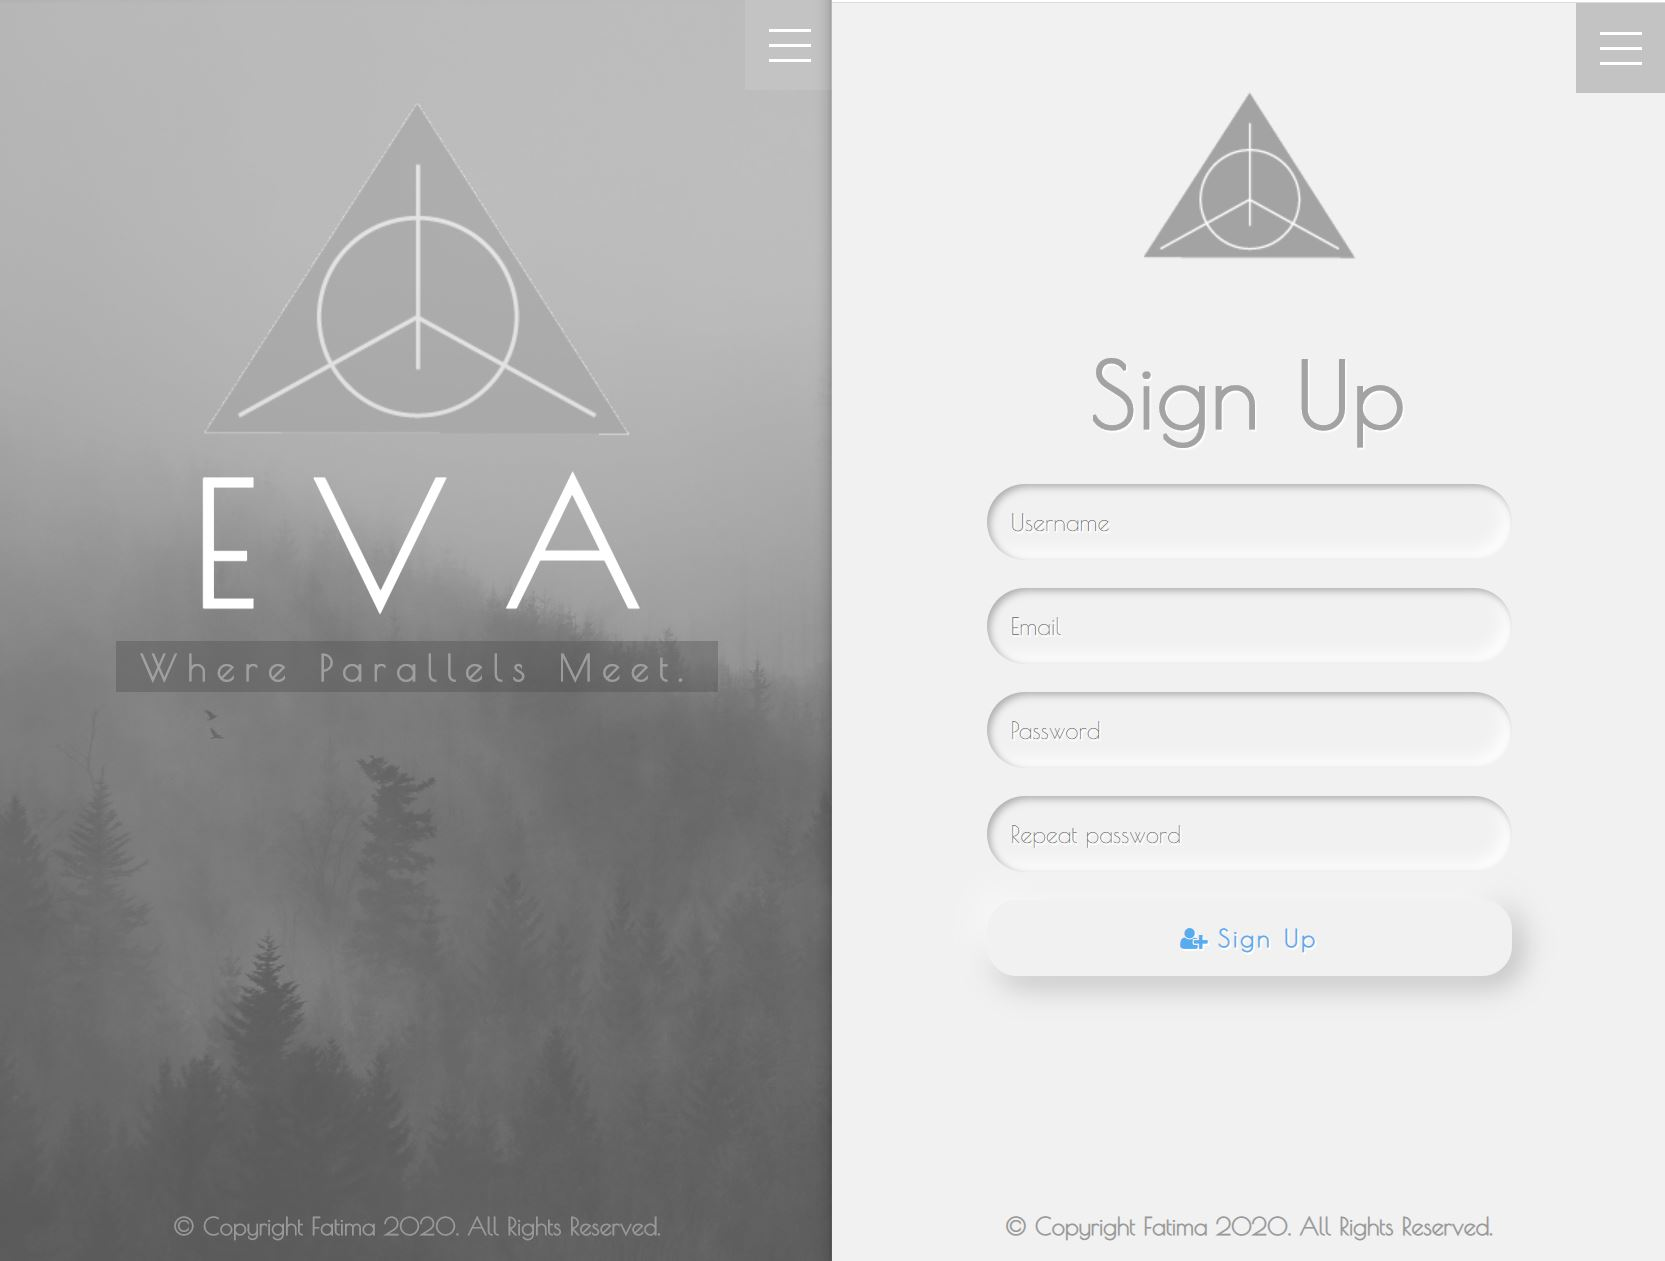
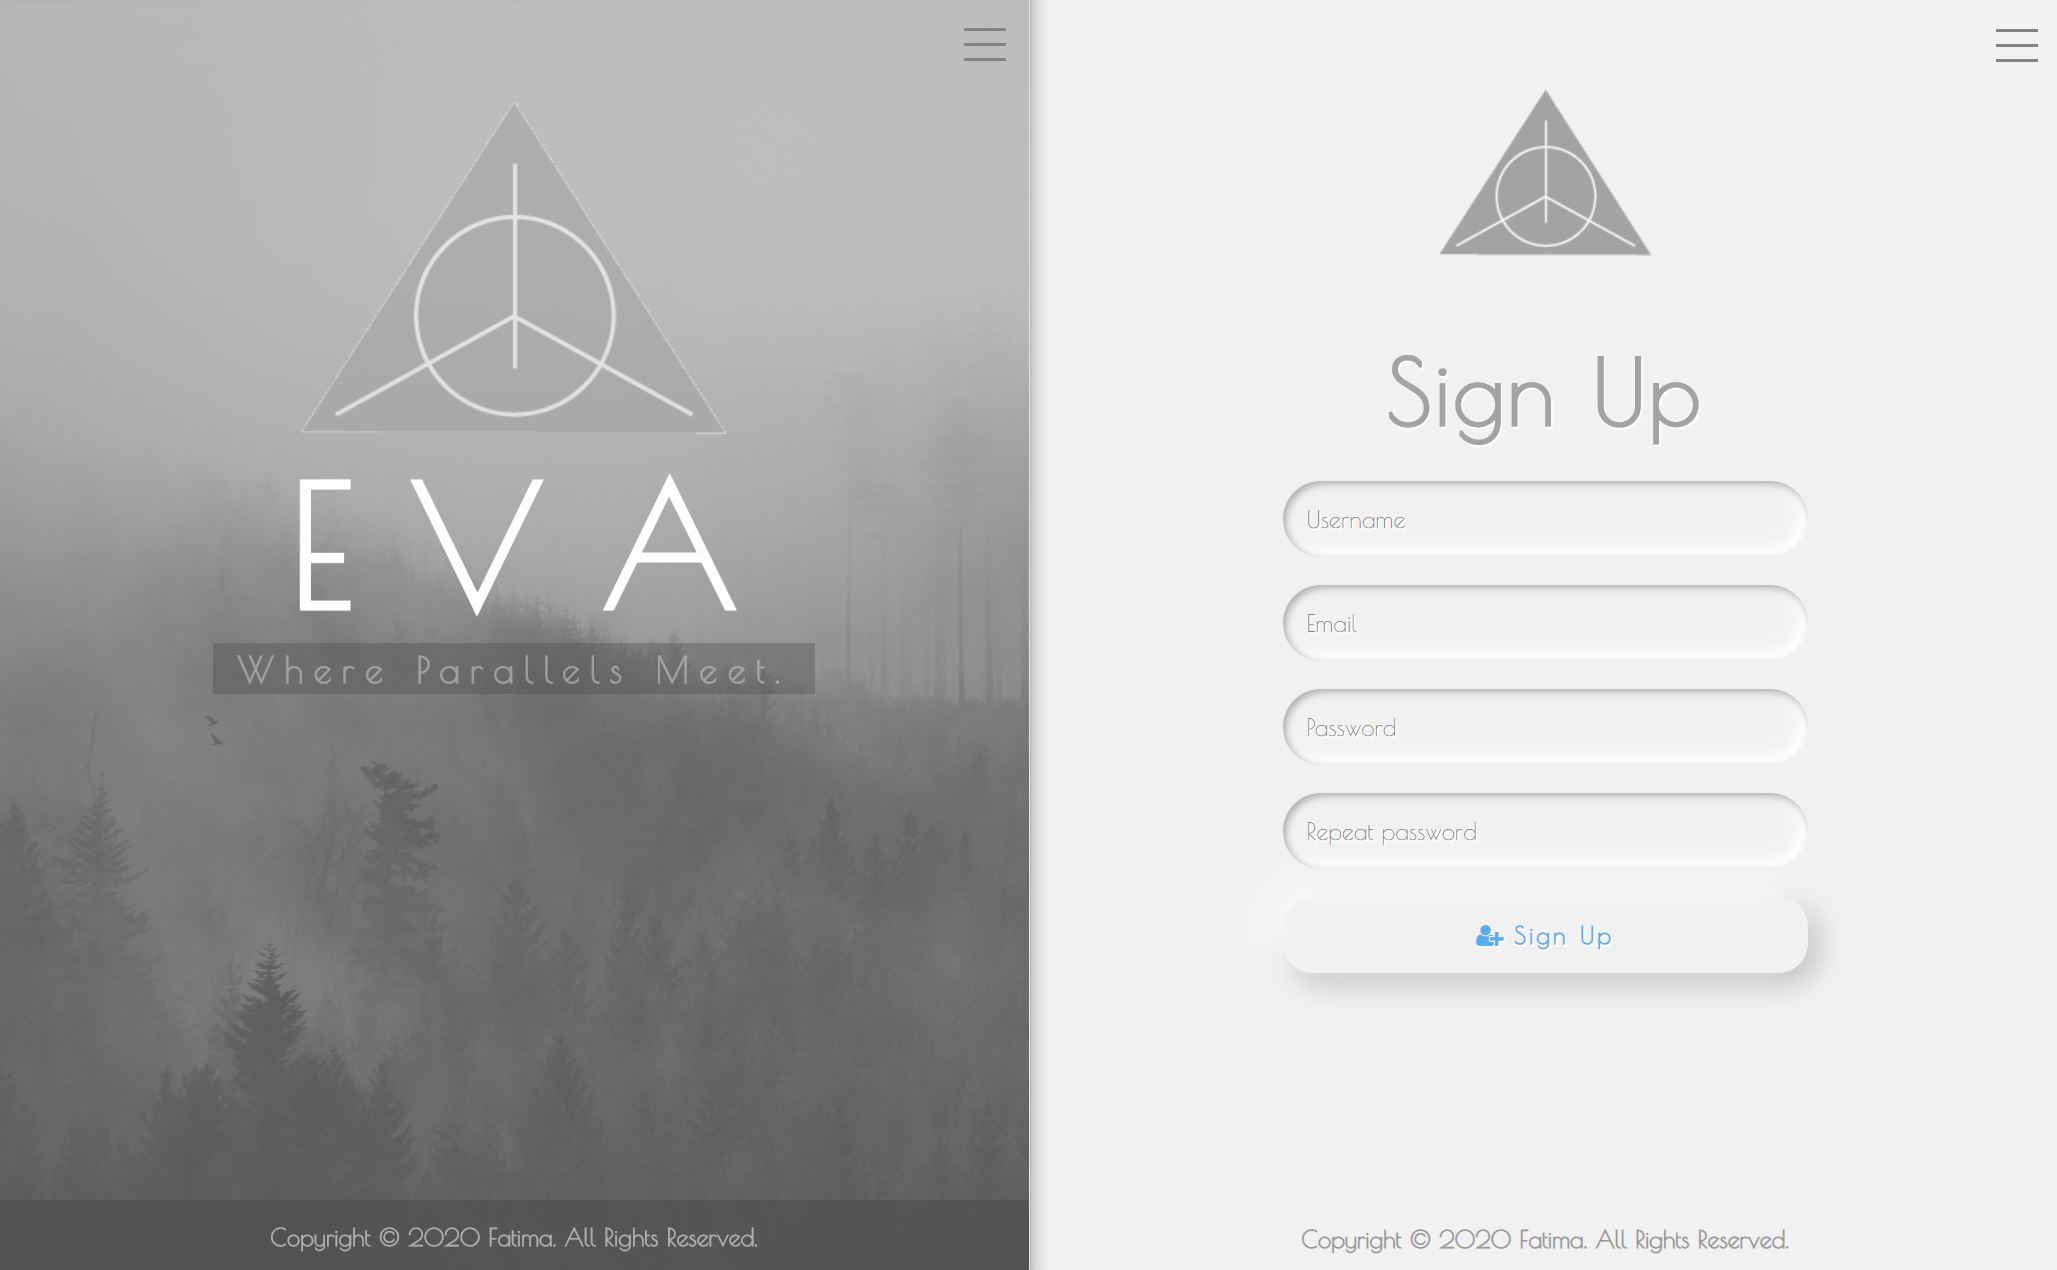
Login System - PHP

diff --git a/login.php b/login.php
@@ -1,18 +1,38 @@
-<?php
+<?php $page = 'login'; ?>
 
+<?php
+  session_start();
 ?>
+
 <!DOCTYPE html>
 <html lang="en">
 
   <?php
     require "header.php";
    ?>
-   
-   <div class="login-form">
+
+
+   <form class="login-form" action="includes/login.inc.php" method="post">
      <div class="form-title">
        <div class="signin-logo"><img src="images/logo.png" alt="logo" style="float:center;"></div>
        <h1>Log In</h1>
+       <?php
+         if (isset($_GET['error'])) {
+           if ($_GET['error'] == "emptyfields") {
+             echo '<p class="signuperror">Please fill in all fields.</p>';
+           }
+           else if ($_GET['error'] == "wrongpwd") {
+             echo '<p class="signuperror">Wrong Username/Password.</p>';
+           }
+           else if ($_GET['error'] == "sqlerror") {
+             echo '<p class="signuperror">Invalid username/Password.</p>';
+           }
+
+         }
+
+       ?>
      </div>
+
      <label><input type="text" placeholder="Username" name="mailuid"></label>
      <label><input type="password" placeholder="Password" name="pwd"></label>
      <div class="remember-me">
@@ -31,10 +51,11 @@
        <button onclick="window.location.href='https://www.linkedin.com/uas/login';" class="media-links" type="button"><i class="fa fa-linkedin"></i></button>
        <button onclick="window.location.href='https://plus.google.com';" class="media-links" type="button"><i class="fa fa-google-plus"></i></button>
      </div>
-     <div class="main-footer">
-       <?php
-         require "footer.php";
-        ?>
-     </div>
+   </form>
+
+   <div class="main-footer">
+     <?php
+       require "footer.php";
+      ?>
    </div>
 </html>

diff --git a/signup.php b/signup.php
@@ -1,3 +1,5 @@
+<?php $page = 'signup'; ?>
+
 <?php
   session_start();
 ?>
@@ -13,7 +15,29 @@
      <div class="form-title">
        <div class="signin-logo"><img src="images/logo.png" alt="logo" style="float:center;"></div>
        <h1>Sign Up</h1>
-       
+       <?php
+         if (isset($_GET['error'])) {
+           if ($_GET['error'] == "emptyfields") {
+             echo '<p class="signuperror">Please fill in all fields.</p>';
+           }
+           else if ($_GET['error'] == "invaliduidmail") {
+             echo '<p class="signuperror">Invalid username and e-mail.</p>';
+           }
+           else if ($_GET['error'] == "invaliduid") {
+             echo '<p class="signuperror">Invalid username.</p>';
+           }
+           else if ($_GET['error'] == "invalidmail") {
+             echo '<p class="signuperror">Invalid e-mail.</p>';
+           }
+           else if ($_GET['error'] == "passwordcheck") {
+             echo '<p class="signuperror">passwords do not match.</p>';
+           }
+           else if ($_GET['error'] == "usertaken") {
+             echo '<p class="signuperror">Username is already taken.</p>';
+           }
+         }
+
+       ?>
      </div>
       <input type="text" name="uid" placeholder="Username"><br><br>
       <input type="text" name="mail" placeholder="Email"><br><br>

diff --git a/header.php b/header.php
@@ -1,3 +1,4 @@
+
 <head>
   <meta charset="utf-8">
   <meta name="viewport" content="width=device-width, initial-scale=1">
@@ -6,6 +7,7 @@
   <link rel="stylesheet" href="style.css">
   <link href="https://fonts.googleapis.com/css2?family=Poiret+One&display=swap" rel="stylesheet">
   <link href="https://stackpath.bootstrapcdn.com/font-awesome/4.7.0/css/font-awesome.min.css" rel="stylesheet">
+
   <title>EVA</title>
 </head>
 <body>
@@ -16,10 +18,10 @@
       <div>
         <div>
           <ul>
-            <li><a href="index.php">Home</a></li>
-            <li><a href="login.php">Sign In</a></li>
-            <li><a href="signup.php">Sign Up</a></li>
-            <li><a href="contact.php">Contact Us</a></li>
+            <li><a class="<?php if($page=='home'){echo 'active';} ?>" href="index.php">Home</a></li>
+            <li><a class="<?php if($page=='login'){echo 'active';} ?>" href="login.php">Sign In</a></li>
+            <li><a class="<?php if($page=='signup'){echo 'active';} ?>" href="signup.php">Sign Up</a></li>
+            <li><a class="<?php if($page=='contact'){echo 'active';} ?>" href="contact.php">Contact Us</a></li>
           </ul>
         </div>
       </div>

diff --git a/includes/login.inc.php b/includes/login.inc.php
@@ -14,6 +14,7 @@ if (isset($_POST['login-submit'])) {
     $sql = "SELECT * FROM users WHERE uidUsers=? OR emailUsers=?;";
     $stmt = mysqli_stmt_init($conn);
     if (!mysqli_stmt_prepare($stmt, $sql)) {
+
       header("Location: ../login.php?error=sqlerror");
       exit();
     }
@@ -36,8 +37,9 @@ if (isset($_POST['login-submit'])) {
           header("Location: ../status.php?login=success");
           exit();
         }
-        else {
-          header("Location: ../status.php?error=wrongpwd");
+        else { // wrong username and password
+          header("Location: ../login.php?error=wrongpwd");
+
           exit();
         }
       }

diff --git a/index.php b/index.php
@@ -1,6 +1,8 @@
+<?php $page = 'home'; ?>
 <?php
 
-?>
+ ?>
+
 <!DOCTYPE html>
 <html lang="en">
 
@@ -18,11 +20,13 @@
      <h2 class="sm-heading">
        Where Parallels Meet.
      </h2>
-     <div class="main-footer">
-       <?php
-         require "footer.php";
-        ?>
-     </div>
+
    </main>
+
+
+     <?php
+       require "home-footer.php";
+      ?>
+  
 
 </html>

diff --git a/includes/signup.inc.php b/includes/signup.inc.php
@@ -58,7 +58,7 @@ if (isset($_POST['signup-submit'])) {
 
           mysqli_stmt_bind_param($stmt, "sss", $username, $email, $hashedPwd);
           mysqli_stmt_execute($stmt);
-          header("Location: ../signup.php?signup=success");
+          header("Location: ../success-login.php?signup=success");
           exit();
         }
       }

diff --git a/footer.php b/footer.php
@@ -1,7 +1,7 @@
 
     <footer>
       <div class="main-footer">
-        &copy; Copyright Fatima 2020. All Rights Reserved.
+         Copyright &copy; 2020 Fatima. All Rights Reserved.
       </div>
     </footer>
   </body>

diff --git a/includes/logout.inc.php b/includes/logout.inc.php
@@ -3,4 +3,4 @@
 session_start();
 session_unset();
 session_destroy();
-header("Location: ../index.php");
+header("Location: ../status.php");

diff --git a/home-footer.php b/home-footer.php
@@ -1,0 +1,6 @@
+<footer>
+  <div class="home-footer">
+     Copyright &copy; 2020 Fatima. All Rights Reserved.
+  </div>
+</footer>
+</body>

diff --git a/README.md b/README.md
@@ -11,3 +11,6 @@
 
 ## + Sign Up Page
 ![menu](img/signup.JPG)
+
+## + Contact Us Page
+![menu](img/contact.JPG)
